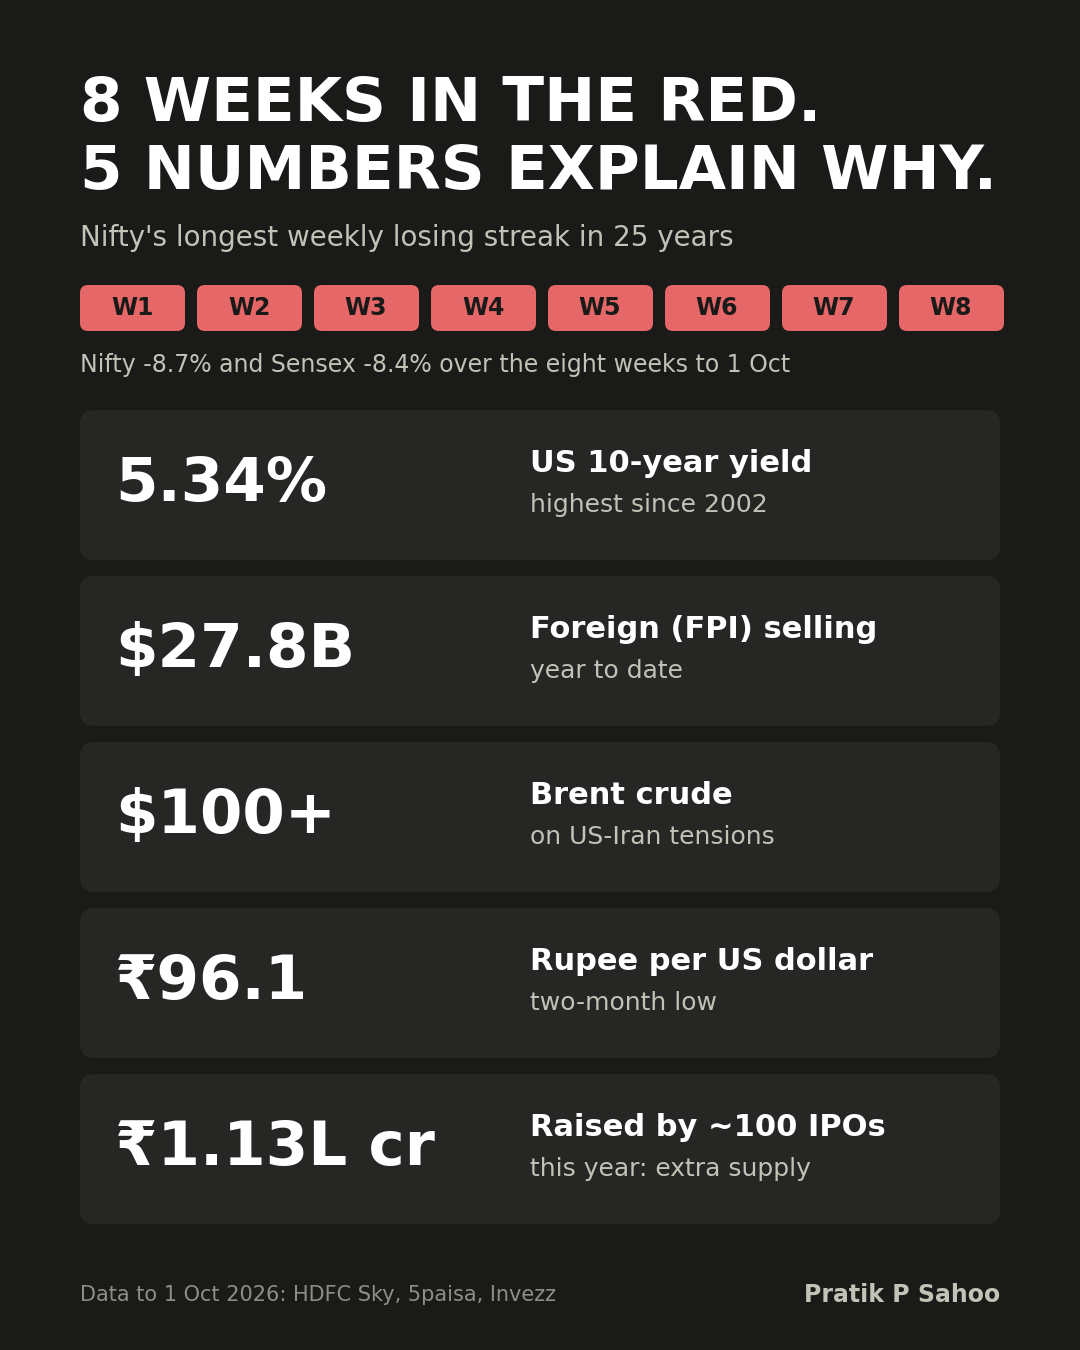
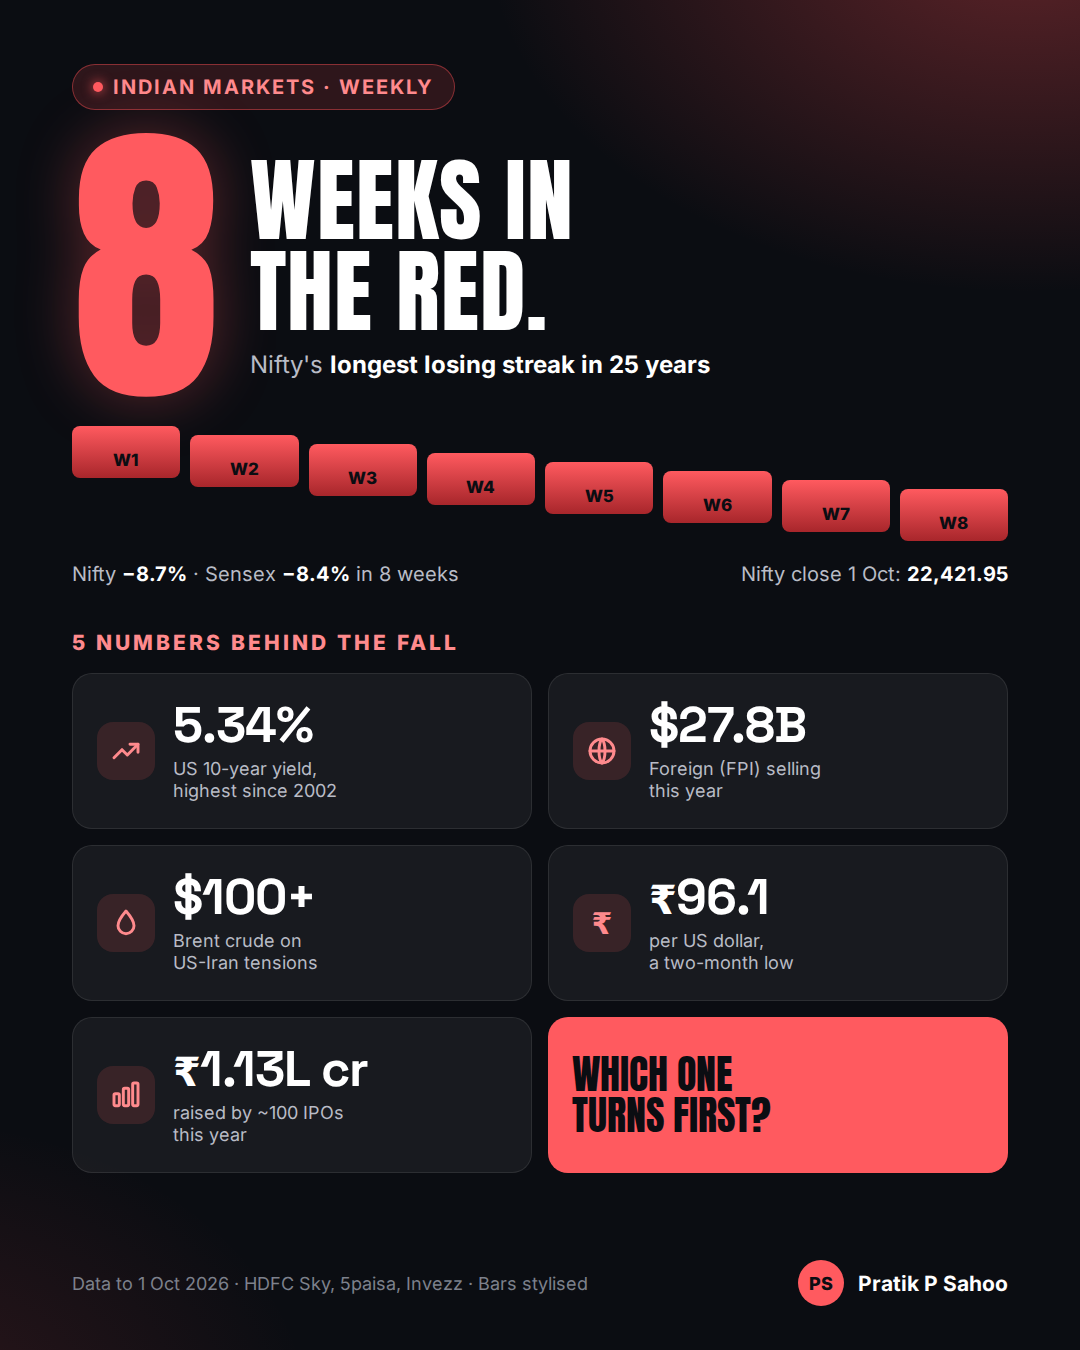
Redesign visuals for 3, 6, 10 Oct posts; add HTML design templates
Claude-Session: https://claude.ai/code/session_01RW3uidPH7iA6kBnp125AVs

diff --git a/design/trade.html b/design/trade.html
@@ -1,0 +1,53 @@
+<!doctype html><html><head><meta charset="utf-8"><link rel="stylesheet" href="base.css"><style>
+body{background:linear-gradient(160deg,#fff7ec 0%,#fdfbf7 45%,#eef4ff 100%);color:#15171d;position:relative}
+.band{position:absolute;left:0;right:0;top:0;height:10px;background:linear-gradient(90deg,#ff9933 0 33%,#ffffff 33% 66%,#2457c5 66%)}
+.wrap{padding:66px 72px 0}
+.pill{background:#15171d;color:#fff}
+.h1{font-family:Serif;font-size:96px;line-height:1.02;margin-top:28px;letter-spacing:-1px}
+.h1 s{text-decoration:none;color:#9aa0ab;position:relative}
+.h1 s:after{content:"";position:absolute;left:-4px;right:-4px;top:52%;height:7px;background:#e0482b;transform:rotate(-3deg);border-radius:4px}
+.h1 em{font-style:normal;color:#2457c5}
+.sub{margin-top:16px;font-size:24px;color:#555b67}
+.meter{margin-top:30px;background:#fff;border:1px solid #e7e1d6;border-radius:20px;padding:22px 26px}
+.meter .row{display:flex;justify-content:space-between;font-size:19px;font-weight:700;color:#555b67}
+.meter .row b{color:#15171d}
+.track{margin-top:14px;height:22px;background:#eceae4;border-radius:999px;overflow:hidden}
+.fill{height:100%;width:90%;background:linear-gradient(90deg,#ff9933,#2457c5);border-radius:999px}
+.tl{margin-top:30px;display:grid;grid-template-columns:repeat(4,1fr);gap:12px;position:relative}
+.tl:before{content:"";position:absolute;left:24px;right:24px;top:23px;height:3px;background:#d8d3c8}
+.ev{position:relative}
+.ev .d{width:48px;height:48px;border-radius:50%;background:#2457c5;color:#fff;display:grid;place-items:center;font-weight:800;font-size:15px;border:4px solid #fdfbf7}
+.ev.last .d{background:#e0482b}
+.ev h4{margin-top:14px;font-size:22px;font-weight:800}
+.ev p{margin-top:6px;font-size:18px;color:#555b67;line-height:1.3}
+.h2{margin-top:36px;font-size:20px;font-weight:800;letter-spacing:2.5px;color:#555b67}
+.stake{margin-top:16px;display:grid;grid-template-columns:1fr 1fr;gap:14px}
+.st{background:#fff;border:1px solid #e7e1d6;border-radius:18px;padding:26px 24px;display:flex;gap:16px;align-items:flex-start}
+.st .ic{width:46px;height:46px;border-radius:12px;display:grid;place-items:center;flex:none;background:#eef3ff}
+.st b{display:block;font-size:20px}
+.st span{display:block;font-size:16px;color:#555b67;margin-top:4px;line-height:1.3}
+.view{margin-top:26px;background:#15171d;color:#fff;border-radius:22px;padding:28px 30px;display:flex;gap:22px;align-items:center}
+.view .tag{font-family:Anton;font-size:30px;color:#ff9933;letter-spacing:1px;flex:none;line-height:1}
+.view p{font-family:Serif;font-size:34px;line-height:1.15}
+.footer{color:#7a7f8a}.sig{color:#15171d}.sig .mono{background:#15171d;color:#fff}
+</style></head><body><div class="band"></div><div class="wrap">
+<span class="pill">Trade deals · India × US</span>
+<div class="h1"><s>“Done and dusted”</s><br><em>“Interim”</em> deal.</div>
+<div class="sub">How the India-US trade deal changed tone in one week</div>
+<div class="meter"><div class="row"><span>How close is it? A senior US official, 26 Sep:</span><b>“90 per cent plus”</b></div><div class="track"><div class="fill"></div></div></div>
+<div class="tl">
+<div class="ev"><div class="d">25</div><h4>25 Sep</h4><p>Goyal: almost “done and dusted”</p></div>
+<div class="ev"><div class="d">26</div><h4>26 Sep</h4><p>US official: “90 per cent plus there”</p></div>
+<div class="ev"><div class="d">30</div><h4>30 Sep</h4><p>Modi and Trump speak by phone</p></div>
+<div class="ev last"><div class="d">1</div><h4>1 Oct</h4><p>Goyal meets USTR Greer: “interim agreement”</p></div>
+</div>
+<div class="h2">WHY INVESTORS SHOULD CARE</div>
+<div class="stake">
+<div class="st"><div class="ic"><svg width="26" height="26" viewBox="0 0 24 24" fill="none" stroke="#2457c5" stroke-width="2.2" stroke-linecap="round" stroke-linejoin="round"><path d="M3 7h13l5 5-5 5H3z"/></svg></div><div><b>Exporters</b><span>need tariff certainty to plan</span></div></div>
+<div class="st"><div class="ic"><svg width="26" height="26" viewBox="0 0 24 24" fill="none" stroke="#2457c5" stroke-width="2.2" stroke-linecap="round" stroke-linejoin="round"><circle cx="12" cy="12" r="9"/><path d="M3 12h18M12 3c3 3.5 3 14.5 0 18M12 3c-3 3.5-3 14.5 0 18"/></svg></div><div><b>Foreign money</b><span>a signed deal could ease FPI selling</span></div></div>
+<div class="st"><div class="ic"><svg width="26" height="26" viewBox="0 0 24 24" fill="none" stroke="#2457c5" stroke-width="2.2" stroke-linecap="round" stroke-linejoin="round"><path d="M12 3s6 7 6 11a6 6 0 0 1-12 0c0-4 6-11 6-11z"/></svg></div><div><b>Sticking points</b><span>tariff edge vs rivals, Russian oil</span></div></div>
+<div class="st"><div class="ic"><svg width="26" height="26" viewBox="0 0 24 24" fill="none" stroke="#2457c5" stroke-width="2.2" stroke-linecap="round" stroke-linejoin="round"><circle cx="12" cy="12" r="9"/><path d="M12 7v5l3 3"/></svg></div><div><b>Next to watch</b><span>Marco Rubio's India visit, October</span></div></div>
+</div>
+<div class="view"><div class="tag">MY<br>VIEW</div><p>A smaller deal signed soon beats a perfect deal that keeps slipping.</p></div></div>
+<div class="footer"><span>Sources: Business Today, India Weekly</span><span class="sig"><span class="mono">PS</span>Pratik P Sahoo</span></div>
+</body></html>

diff --git a/design/eight-weeks.html b/design/eight-weeks.html
@@ -1,0 +1,43 @@
+<!doctype html><html><head><meta charset="utf-8"><link rel="stylesheet" href="base.css"><style>
+body{background:#0b0d12;color:#fff;position:relative}
+.glow{position:absolute;inset:0;background:radial-gradient(900px 600px at 95% -5%,rgba(229,72,77,.38),transparent 60%),radial-gradient(700px 500px at -10% 105%,rgba(229,72,77,.16),transparent 60%)}
+.wrap{position:relative;padding:64px 72px 0}
+.pill{background:rgba(229,72,77,.16);color:#ff8a8d;border:1.5px solid rgba(229,72,77,.5)}
+.dot{width:10px;height:10px;border-radius:50%;background:#ff5a5f;box-shadow:0 0 12px #ff5a5f}
+.hero{display:flex;align-items:center;gap:30px;margin-top:34px}
+.eight{font-family:Anton;font-size:300px;line-height:.82;color:#ff5a5f;text-shadow:0 0 60px rgba(255,90,95,.35)}
+.h1{font-family:Anton;font-size:92px;line-height:.98;letter-spacing:1px}
+.sub{margin-top:14px;font-size:24px;color:#b9bcc6}
+.sub b{color:#fff}
+.stairs{margin-top:36px;display:flex;align-items:flex-start;gap:10px;height:120px}
+.stairs div{flex:1;border-radius:8px;background:linear-gradient(180deg,#ff5a5f,#a8262b);color:#0b0d12;font-weight:800;font-size:17px;display:flex;align-items:flex-end;justify-content:center;padding-bottom:8px}
+.stats{display:flex;justify-content:space-between;margin-top:16px;font-size:20px;color:#b9bcc6}
+.stats b{color:#fff}
+.h2{margin-top:44px;font-size:21px;font-weight:800;letter-spacing:3px;color:#ff8a8d}
+.grid{margin-top:18px;display:grid;grid-template-columns:1fr 1fr;gap:16px}
+.card{background:rgba(255,255,255,.055);border:1px solid rgba(255,255,255,.09);border-radius:20px;padding:22px 24px;display:flex;gap:18px;align-items:center;height:156px}
+.ic{width:58px;height:58px;border-radius:16px;background:rgba(255,90,95,.14);display:grid;place-items:center;flex:none}
+.card .num{font-size:50px;line-height:1}
+.card .lbl{font-size:18px;color:#b9bcc6;margin-top:8px;line-height:1.25}
+.card.cta{background:#ff5a5f;border:none;color:#0b0d12}
+.card.cta .q{font-family:Anton;font-size:40px;line-height:1.02}
+.footer{color:#7d818c}
+.sig{color:#fff}.sig .mono{background:#ff5a5f;color:#0b0d12}
+</style></head><body><div class="glow"></div><div class="wrap">
+<span class="pill"><span class="dot"></span>Indian markets · weekly</span>
+<div class="hero"><div class="eight">8</div><div><div class="h1">WEEKS IN<br>THE RED.</div><div class="sub">Nifty's <b>longest losing streak in 25 years</b></div></div></div>
+<div class="stairs">
+<div style="margin-top:0;height:52px">W1</div><div style="margin-top:9px;height:52px">W2</div><div style="margin-top:18px;height:52px">W3</div><div style="margin-top:27px;height:52px">W4</div><div style="margin-top:36px;height:52px">W5</div><div style="margin-top:45px;height:52px">W6</div><div style="margin-top:54px;height:52px">W7</div><div style="margin-top:63px;height:52px">W8</div>
+</div>
+<div class="stats"><span>Nifty <b>−8.7%</b> · Sensex <b>−8.4%</b> in 8 weeks</span><span>Nifty close 1 Oct: <b>22,421.95</b></span></div>
+<div class="h2">5 NUMBERS BEHIND THE FALL</div>
+<div class="grid">
+<div class="card"><div class="ic"><svg width="32" height="32" viewBox="0 0 24 24" fill="none" stroke="#ff8a8d" stroke-width="2.2" stroke-linecap="round" stroke-linejoin="round"><path d="M3 17l6-6 4 4 8-8"/><path d="M15 7h6v6"/></svg></div><div><div class="num">5.34%</div><div class="lbl">US 10-year yield,<br>highest since 2002</div></div></div>
+<div class="card"><div class="ic"><svg width="32" height="32" viewBox="0 0 24 24" fill="none" stroke="#ff8a8d" stroke-width="2.2" stroke-linecap="round" stroke-linejoin="round"><circle cx="12" cy="12" r="9"/><path d="M3 12h18M12 3c3 3.5 3 14.5 0 18M12 3c-3 3.5-3 14.5 0 18"/></svg></div><div><div class="num">$27.8B</div><div class="lbl">Foreign (FPI) selling<br>this year</div></div></div>
+<div class="card"><div class="ic"><svg width="32" height="32" viewBox="0 0 24 24" fill="none" stroke="#ff8a8d" stroke-width="2.2" stroke-linecap="round" stroke-linejoin="round"><path d="M12 3s6 7 6 11a6 6 0 0 1-12 0c0-4 6-11 6-11z"/></svg></div><div><div class="num">$100+</div><div class="lbl">Brent crude on<br>US-Iran tensions</div></div></div>
+<div class="card"><div class="ic"><span class="rs" style="font-size:30px;color:#ff8a8d">₹</span></div><div><div class="num"><span class="rs" style="font-size:40px">₹</span>96.1</div><div class="lbl">per US dollar,<br>a two-month low</div></div></div>
+<div class="card"><div class="ic"><svg width="32" height="32" viewBox="0 0 24 24" fill="none" stroke="#ff8a8d" stroke-width="2.2" stroke-linecap="round" stroke-linejoin="round"><rect x="3" y="11" width="4" height="9" rx="1"/><rect x="10" y="7" width="4" height="13" rx="1"/><rect x="17" y="3" width="4" height="17" rx="1"/></svg></div><div><div class="num"><span class="rs" style="font-size:40px">₹</span>1.13L cr</div><div class="lbl">raised by ~100 IPOs<br>this year</div></div></div>
+<div class="card cta"><div class="q">WHICH ONE<br>TURNS FIRST?</div></div>
+</div></div>
+<div class="footer"><span>Data to 1 Oct 2026 · HDFC Sky, 5paisa, Invezz · Bars stylised</span><span class="sig"><span class="mono">PS</span>Pratik P Sahoo</span></div>
+</body></html>

diff --git a/design/rbi.html b/design/rbi.html
@@ -1,0 +1,57 @@
+<!doctype html><html><head><meta charset="utf-8"><link rel="stylesheet" href="base.css"><style>
+body{background:#f6f3ec;color:#14161c;position:relative}
+.top{background:#10224a;color:#fff;padding:60px 72px 56px;position:relative;overflow:hidden}
+.top:after{content:"";position:absolute;right:-120px;top:-120px;width:460px;height:460px;border-radius:50%;background:radial-gradient(circle,rgba(255,196,77,.35),transparent 65%)}
+.pill{background:rgba(255,196,77,.16);color:#ffc44d;border:1.5px solid rgba(255,196,77,.5)}
+.h1{font-family:Anton;font-size:122px;line-height:.95;margin-top:28px;letter-spacing:1px}
+.h1 .q{color:#ffc44d}
+.sub{margin-top:18px;font-size:25px;color:#c6cee0}
+.sub b{color:#fff}
+.body{padding:40px 72px 0}
+.lab{display:flex;justify-content:space-between;align-items:center;font-size:20px;font-weight:800;letter-spacing:2.5px;color:#5a5f6b}
+.tgt{display:flex;align-items:center;gap:10px;font-weight:600;letter-spacing:0;font-size:18px}
+.tgt i{width:44px;border-top:3px dashed #5a5f6b}
+.chart{position:relative;height:300px;margin-top:22px;display:flex;align-items:flex-end;gap:36px;padding:0 20px;border-bottom:3px solid #d9d4c8}
+.bar{flex:1;border-radius:12px 12px 4px 4px;position:relative;background:linear-gradient(180deg,#ff7a45,#e0482b)}
+.bar.ok{background:linear-gradient(180deg,#4f8ff0,#2a66c9)}
+.bar span{position:absolute;top:-46px;left:0;right:0;text-align:center;font-family:Grotesk;font-weight:700;font-size:32px;color:#14161c}
+.months{display:flex;gap:36px;padding:12px 20px 0}
+.months div{flex:1;text-align:center;font-size:20px;color:#5a5f6b;font-weight:600}
+.line{position:absolute;left:0;right:0;border-top:3px dashed #5a5f6b}
+.press{margin-top:30px;display:flex;gap:14px}
+.press>div{flex:1;background:#fff;border-radius:16px;padding:16px 18px;border:1px solid #e6e0d3}
+.press .num{font-size:32px}
+.press small{display:block;font-size:16px;color:#5a5f6b;margin-top:4px}
+.doors{margin-top:22px;display:flex;gap:14px}
+.door{flex:1;border-radius:18px;padding:20px 20px 22px;color:#fff}
+.door h3{font-family:Anton;font-size:46px;letter-spacing:1px;line-height:1}
+.door p{font-size:17px;margin-top:10px;line-height:1.3;opacity:.95}
+.cut{background:#1f8f5f}.hold{background:#5a5f6b}.hike{background:#d23b3b}
+.footer{color:#7a7f8a}.sig{color:#14161c}.sig .mono{background:#10224a;color:#ffc44d}
+</style></head><body>
+<div class="top"><span class="pill">RBI policy · 7 Oct 2026</span>
+<div class="h1">CUT. HOLD.<br>OR HIKE<span class="q">?</span></div>
+<div class="sub">Repo rate <b>5.25%</b>, unchanged for four meetings. Inflation isn't waiting.</div></div>
+<div class="body">
+<div class="lab"><span>RETAIL INFLATION (CPI), 2026</span><span class="tgt"><i></i>RBI target 4%</span></div>
+<div class="chart">
+<div class="line" style="bottom:calc(300px * 4 / 5.6)"></div>
+<div class="bar ok" style="height:calc(300px * 3.93 / 5.6)"><span>3.93%</span></div>
+<div class="bar" style="height:calc(300px * 4.38 / 5.6)"><span>4.38%</span></div>
+<div class="bar" style="height:calc(300px * 4.45 / 5.6)"><span>4.45%</span></div>
+<div class="bar" style="height:calc(300px * 4.82 / 5.6)"><span>4.82%</span></div>
+</div>
+<div class="months"><div>May</div><div>Jun</div><div>Jul</div><div>Aug</div></div>
+<div class="press">
+<div><div class="num">$100+</div><small>Brent crude</small></div>
+<div><div class="num"><span class="rs" style="font-size:28px">₹</span>96</div><small>per US dollar</small></div>
+<div><div class="num">5.34%</div><small>US 10-year yield</small></div>
+<div><div class="num">~6%</div><small>Food inflation (Aug)</small></div>
+</div>
+<div class="doors">
+<div class="door cut"><h3>CUT</h3><p>Lifts growth and stocks, but can weaken the rupee</p></div>
+<div class="door hold"><h3>HOLD</h3><p>Buys time; watch for a shift in tone</p></div>
+<div class="door hike"><h3>HIKE</h3><p>Defends the rupee; makes loans costlier</p></div>
+</div></div>
+<div class="footer"><span>CPI: MoSPI via Business Standard, Republic · RBI</span><span class="sig"><span class="mono">PS</span>Pratik P Sahoo</span></div>
+</body></html>

diff --git a/design/base.css b/design/base.css
@@ -1,0 +1,17 @@
+@font-face{font-family:Anton;src:url(node_modules/@fontsource/anton/files/anton-latin-400-normal.woff2)}
+@font-face{font-family:Inter;font-weight:400;src:url(node_modules/@fontsource/inter/files/inter-latin-400-normal.woff2)}
+@font-face{font-family:Inter;font-weight:600;src:url(node_modules/@fontsource/inter/files/inter-latin-600-normal.woff2)}
+@font-face{font-family:Inter;font-weight:700;src:url(node_modules/@fontsource/inter/files/inter-latin-700-normal.woff2)}
+@font-face{font-family:Inter;font-weight:800;src:url(node_modules/@fontsource/inter/files/inter-latin-800-normal.woff2)}
+@font-face{font-family:Grotesk;font-weight:700;src:url(node_modules/@fontsource/space-grotesk/files/space-grotesk-latin-700-normal.woff2)}
+@font-face{font-family:Serif;src:url(node_modules/@fontsource/dm-serif-display/files/dm-serif-display-latin-400-normal.woff2)}
+*{box-sizing:border-box;margin:0;padding:0}
+html,body{width:1080px;height:1350px;overflow:hidden}
+body{font-family:Inter,"DejaVu Sans",sans-serif;-webkit-font-smoothing:antialiased}
+.num{font-family:Grotesk,"DejaVu Sans",sans-serif;font-weight:700;letter-spacing:-1px}
+.rs{font-family:"DejaVu Sans",sans-serif;font-weight:700}
+.pill{display:inline-flex;align-items:center;gap:10px;padding:10px 20px;border-radius:999px;font-weight:700;font-size:20px;letter-spacing:2px;text-transform:uppercase}
+.footer{position:absolute;left:72px;right:72px;bottom:44px;display:flex;justify-content:space-between;align-items:center;font-size:18px}
+.sig{display:flex;align-items:center;gap:14px;font-weight:700;font-size:21px}
+.sig .mono{width:46px;height:46px;border-radius:50%;display:grid;place-items:center;font-weight:800;font-size:18px}
+svg{display:block}

diff --git a/design/render.py b/design/render.py
@@ -1,0 +1,15 @@
+import sys, asyncio
+from playwright.async_api import async_playwright
+
+async def main(pairs):
+    async with async_playwright() as p:
+        b = await p.chromium.launch()
+        pg = await b.new_page(viewport={"width": 1080, "height": 1350}, device_scale_factor=1)
+        for src, out in pairs:
+            await pg.goto(f"file://{src}")
+            await pg.wait_for_timeout(400)
+            await pg.screenshot(path=out, full_page=False)
+        await b.close()
+
+args = sys.argv[1:]
+asyncio.run(main(list(zip(args[0::2], args[1::2]))))

diff --git a/STYLE.md b/STYLE.md
@@ -2,6 +2,14 @@
 
 Every image or video made for a post follows these rules.
 
+## How to build images (preferred: HTML + headless Chromium)
+Build each image as a 1080x1350 HTML page and screenshot it. This gives magazine-quality typography.
+1. `cd design && npm init -y && npm i @fontsource/inter @fontsource/anton @fontsource/space-grotesk @fontsource/dm-serif-display`
+2. Copy the closest template (`eight-weeks.html` = dark stat grid, `rbi.html` = navy header + bar chart + option cards, `trade.html` = light timeline + "My view" banner). All link `base.css`.
+3. Render: `python3 render.py $PWD/my.html $PWD/my.png` (Playwright + Chromium are preinstalled; never run `playwright install`).
+4. Open the PNG and check for overflow, overlap or empty space before uploading.
+Design moves that work: one giant hero number or headline (Anton), a coloured pill tag for the theme, icon chips, big stat numbers (Space Grotesk), a strong closing card ("Which one turns first?" or "My view"), the PS monogram signature. Use the ₹ sign via the `.rs` class.
+
 ## Format
 - Image: 1080 x 1350 px PNG (4:5 portrait, best reach in the LinkedIn feed).
 - Video: 1080 x 1350 or 1080 x 1920, H.264 MP4, yuv420p, `-movflags +faststart`.
